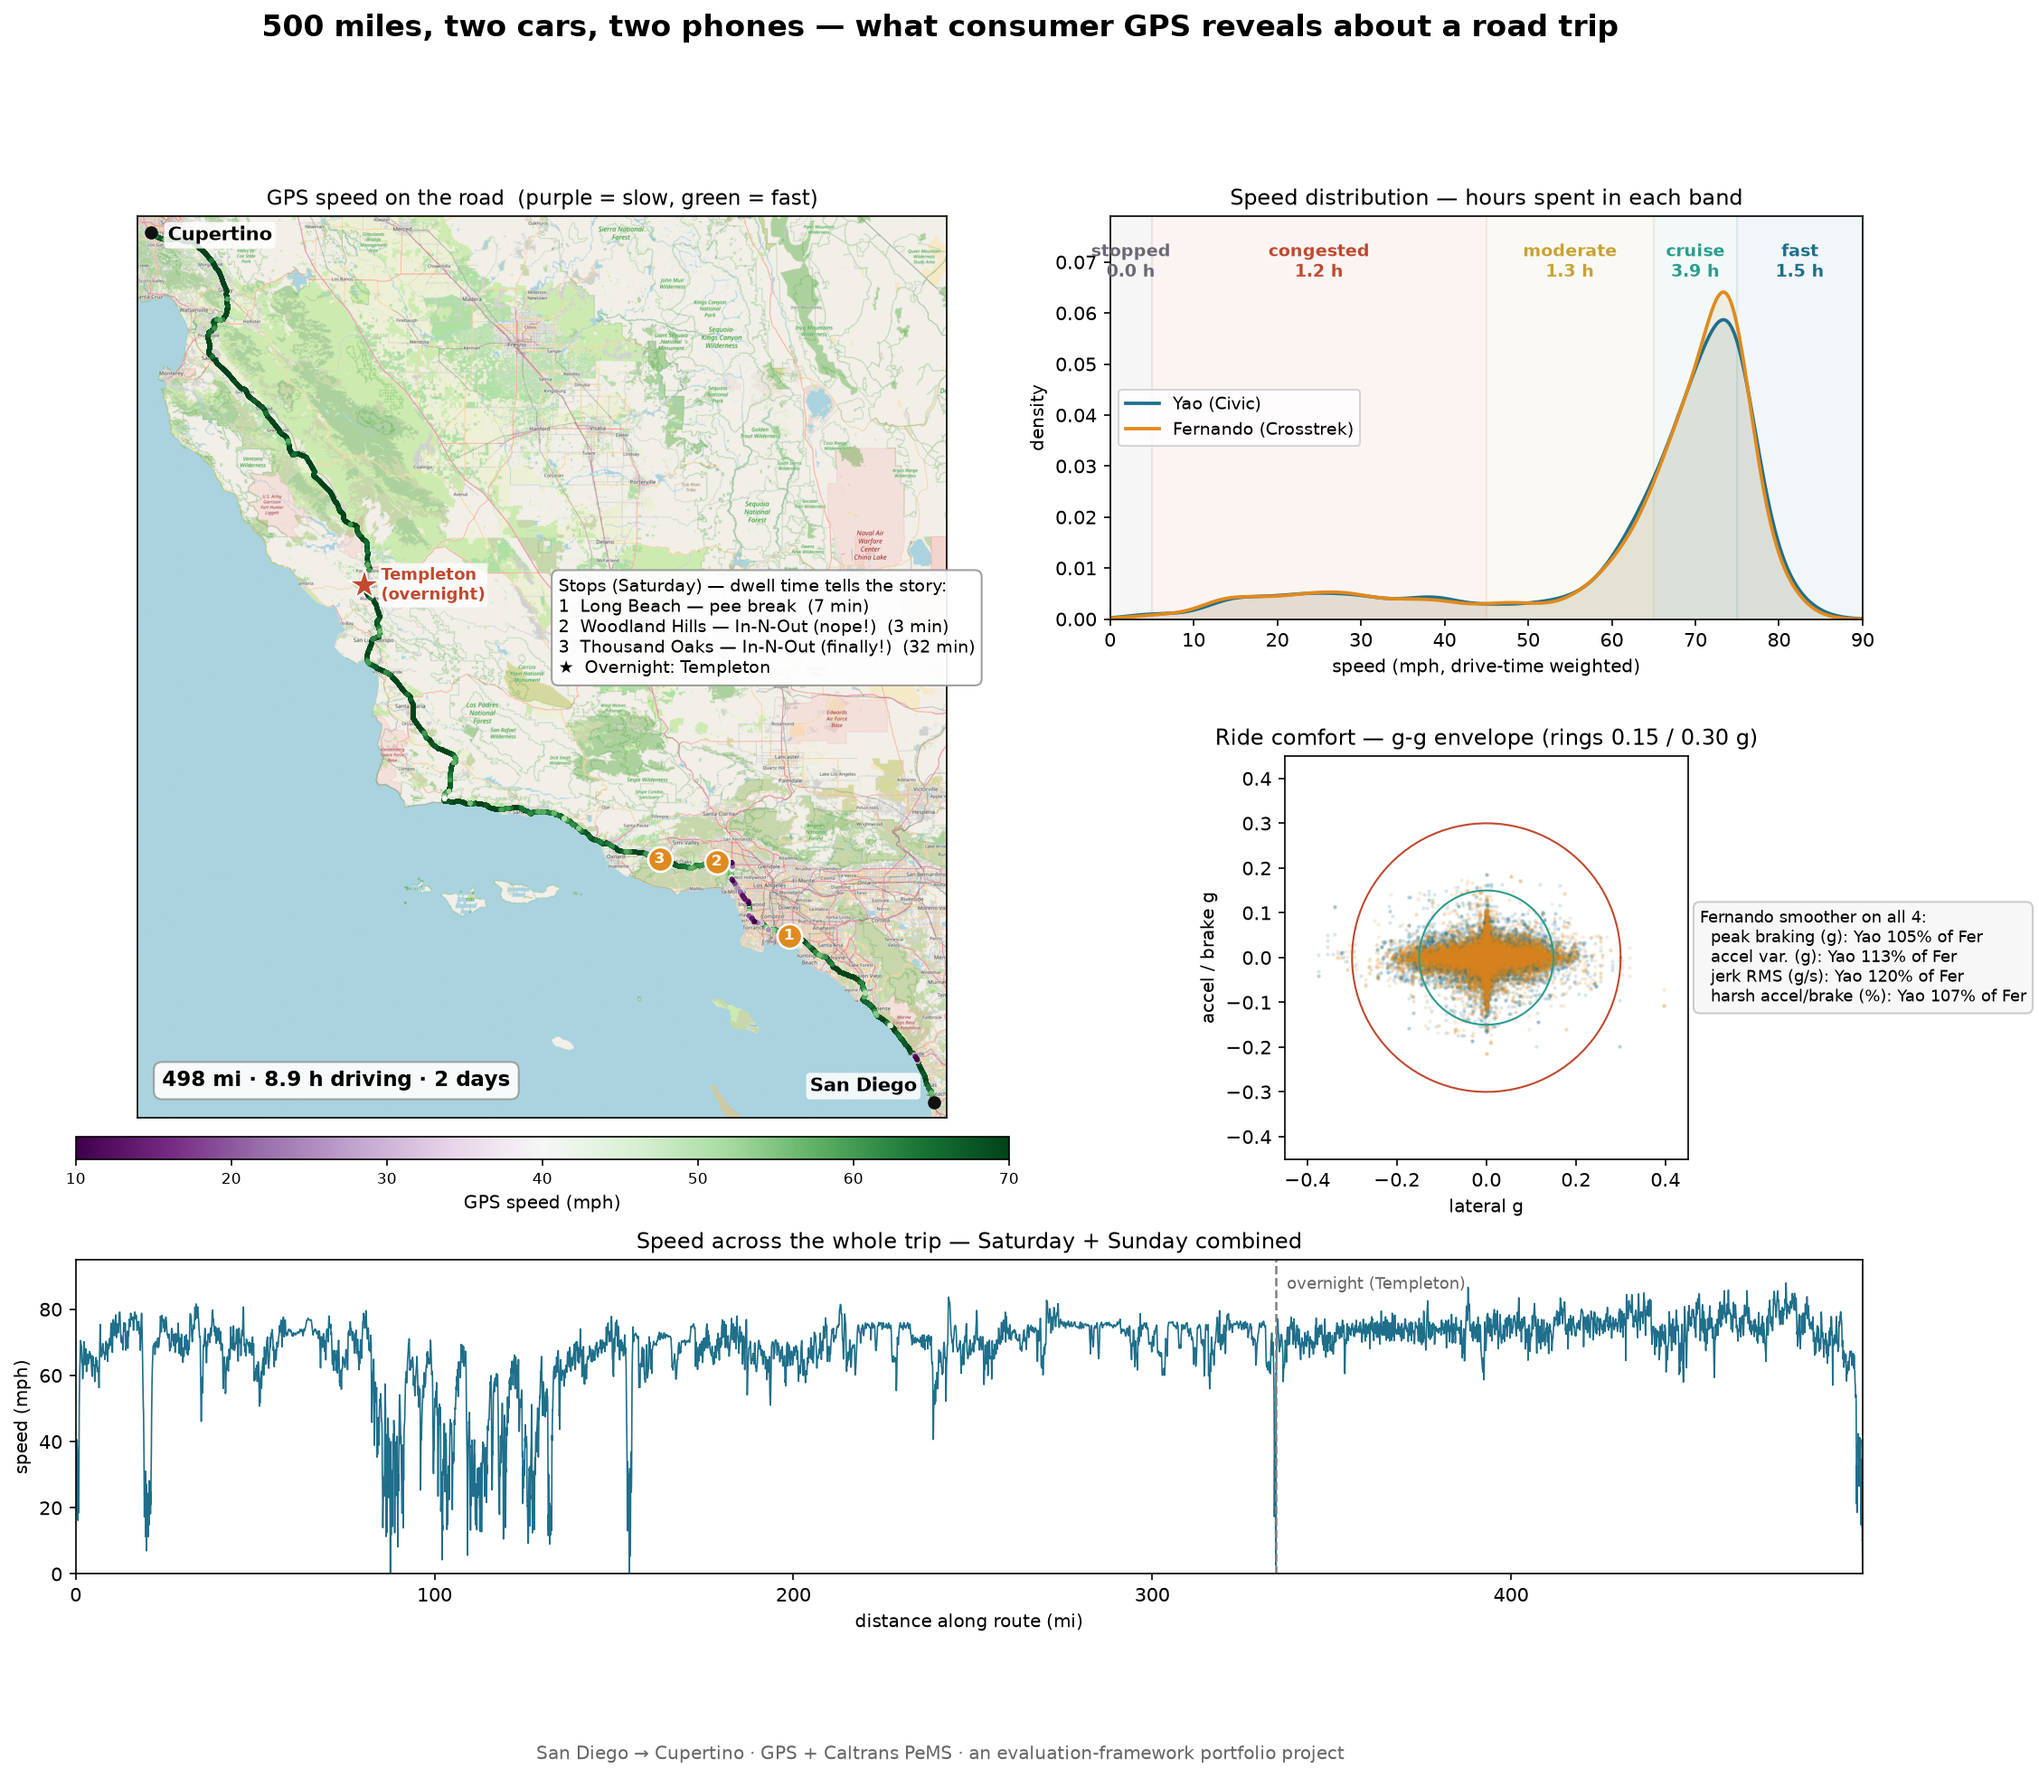
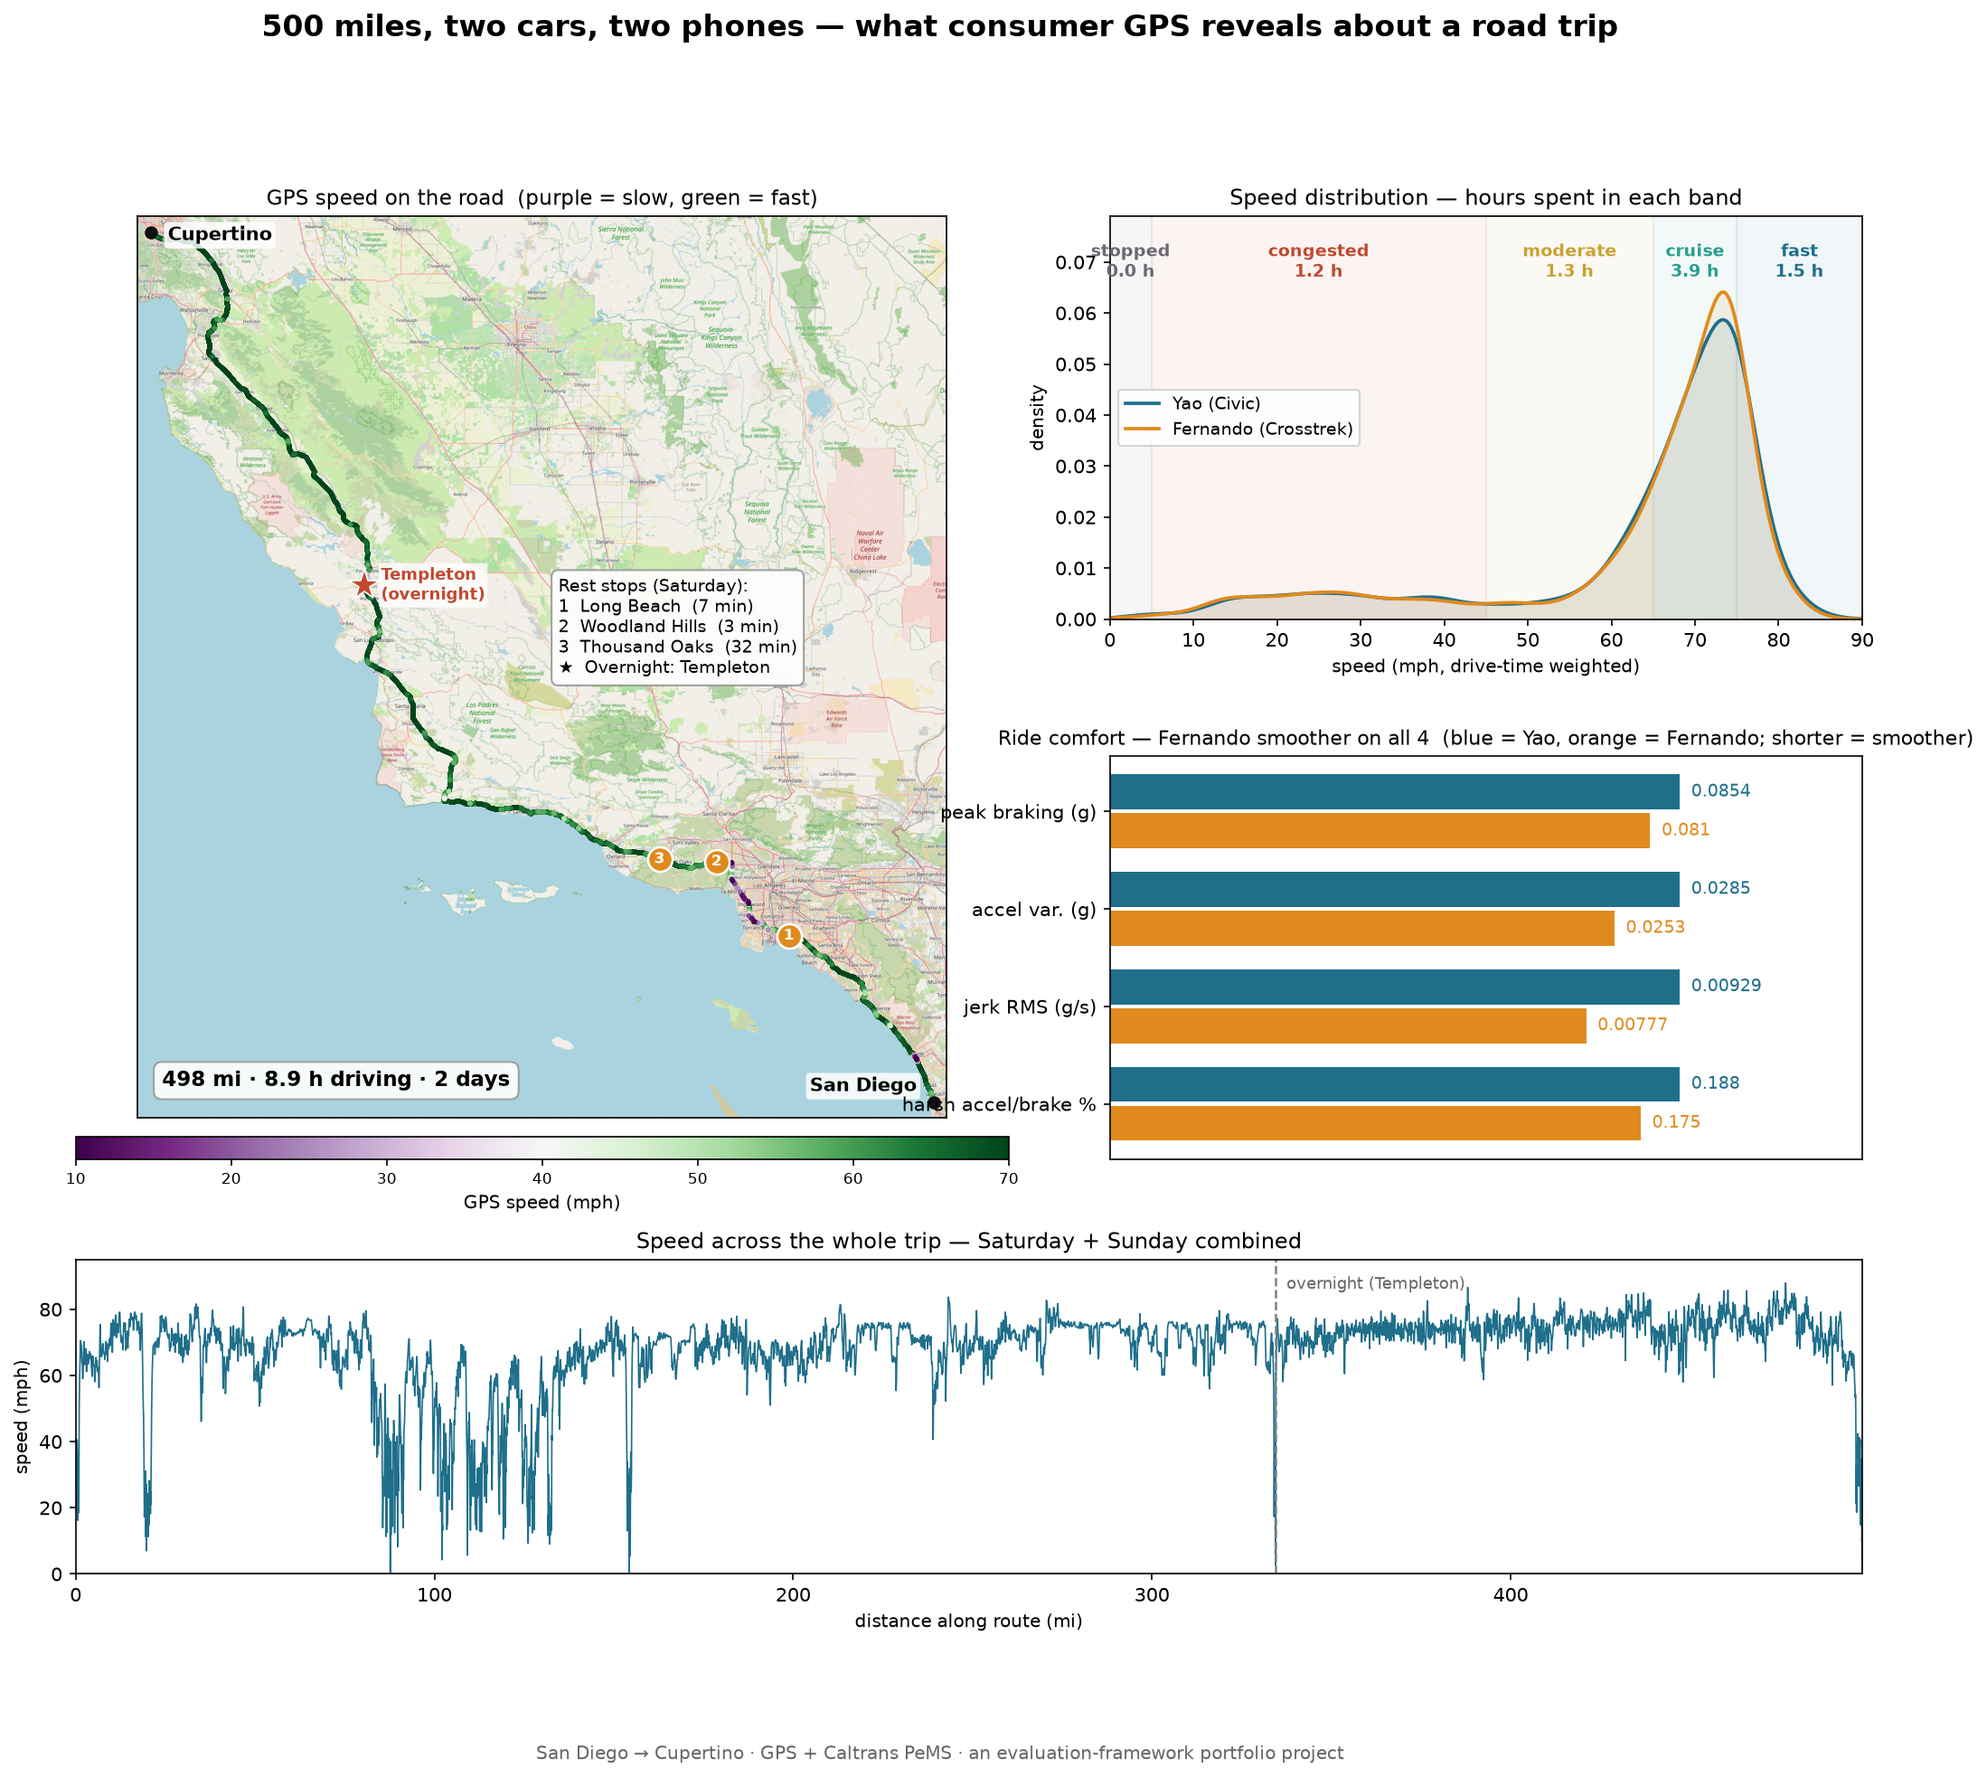
Poster: readable comfort scorecard; neutral stop labels
Replace the dense g-g scatter + number-wall with a clean horizontal smoothness
scorecard (Yao vs Fernando, values labeled). Neutralize the rest-stop labels
(place + duration). Sync updated poster into assets/.

diff --git a/make_poster.py b/make_poster.py
@@ -104,16 +104,13 @@ def main():
                      fontsize=10, fontweight="bold", zorder=6,
                      bbox=dict(boxstyle="round,pad=0.2", fc="white", ec="none", alpha=0.85))
     # Saturday rest stops (numbered) + overnight star, with a key in the empty inland area
-    REASONS = {"Long Beach": "pee break", "Woodland Hills": "In-N-Out (nope!)",
-               "Thousand Oaks": "In-N-Out (finally!)"}
-    key_lines = ["Stops (Saturday) — dwell time tells the story:"]
+    key_lines = ["Rest stops (Saturday):"]
     for i, (s, e, la, lo) in enumerate(stops, 1):
         gx, gy = merc(la, lo)
         axm.plot(gx, gy, "o", ms=13, color="#e08a1e", mec="white", mew=1.2, zorder=7)
         axm.text(gx, gy, str(i), ha="center", va="center", fontsize=8, fontweight="bold",
                  color="white", zorder=8)
-        pl = nearest(la, lo)
-        key_lines.append(f"{i}  {pl} — {REASONS.get(pl, '')}  ({(e-s).total_seconds()/60:.0f} min)")
+        key_lines.append(f"{i}  {nearest(la, lo)}  ({(e-s).total_seconds()/60:.0f} min)")
     tx, ty = merc(*templeton)
     axm.plot(tx, ty, "*", ms=17, color="#c0492f", mec="white", mew=0.8, zorder=7)
     axm.annotate("Templeton\n(overnight)", (tx, ty), textcoords="offset points", xytext=(9, 0),
@@ -143,18 +140,19 @@ def main():
     ax_top.set_title("Speed distribution — hours spent in each band", fontsize=11.5)
     ax_top.legend(fontsize=9, loc="center left")
 
-    # ride comfort g-g + scorecard (bottom-right)
-    for d, c in [(yao, _A), (fer, _B)]:
-        ax_bot.scatter(d["lat_g_signed"], d["accel_g"], s=1.5, alpha=0.10, color=c)
-    for rr, c in [(0.15, "#2a9d8f"), (0.30, "#c0492f")]:
-        th = np.linspace(0, 2*np.pi, 100); ax_bot.plot(rr*np.cos(th), rr*np.sin(th), color=c, lw=1)
-    ax_bot.set_xlim(-0.45, 0.45); ax_bot.set_ylim(-0.45, 0.45); ax_bot.set_aspect("equal")
-    ax_bot.set_xlabel("lateral g", fontsize=9.5); ax_bot.set_ylabel("accel / brake g", fontsize=9.5)
-    ax_bot.set_title("Ride comfort — g-g envelope (rings 0.15 / 0.30 g)", fontsize=11.5)
-    txt = "Fernando smoother on all 4:\n" + "\n".join(
-        f"  {k}: Yao {100*my[k]/mf[k]:.0f}% of Fer" for k in my)
-    ax_bot.text(1.03, 0.5, txt, transform=ax_bot.transAxes, fontsize=8.5, va="center",
-                bbox=dict(boxstyle="round,pad=0.4", fc="#f7f7f7", ec="#ccc"))
+    # ride comfort — smoothness scorecard (bottom-right); bars are far easier to read
+    keys = list(my)
+    ypos = np.arange(len(keys))[::-1]
+    for i, k in enumerate(keys):
+        yi = ypos[i]; vmax = max(my[k], mf[k])
+        ax_bot.barh(yi + 0.2, my[k] / vmax, 0.36, color=_A)
+        ax_bot.barh(yi - 0.2, mf[k] / vmax, 0.36, color=_B)
+        ax_bot.text(my[k] / vmax + 0.02, yi + 0.2, f"{my[k]:.3g}", va="center", fontsize=9, color=_A)
+        ax_bot.text(mf[k] / vmax + 0.02, yi - 0.2, f"{mf[k]:.3g}", va="center", fontsize=9, color=_B)
+    ax_bot.set_yticks(ypos); ax_bot.set_yticklabels([k.replace(" (%)", " %") for k in keys], fontsize=10)
+    ax_bot.set_xlim(0, 1.32); ax_bot.set_xticks([])
+    ax_bot.set_title("Ride comfort — Fernando smoother on all 4  (blue = Yao, orange = Fernando; "
+                     "shorter = smoother)", fontsize=10.5)
 
     # combined speed plot (both days, along route distance) — full width, bottom
     sat_f, sun_f = frames
